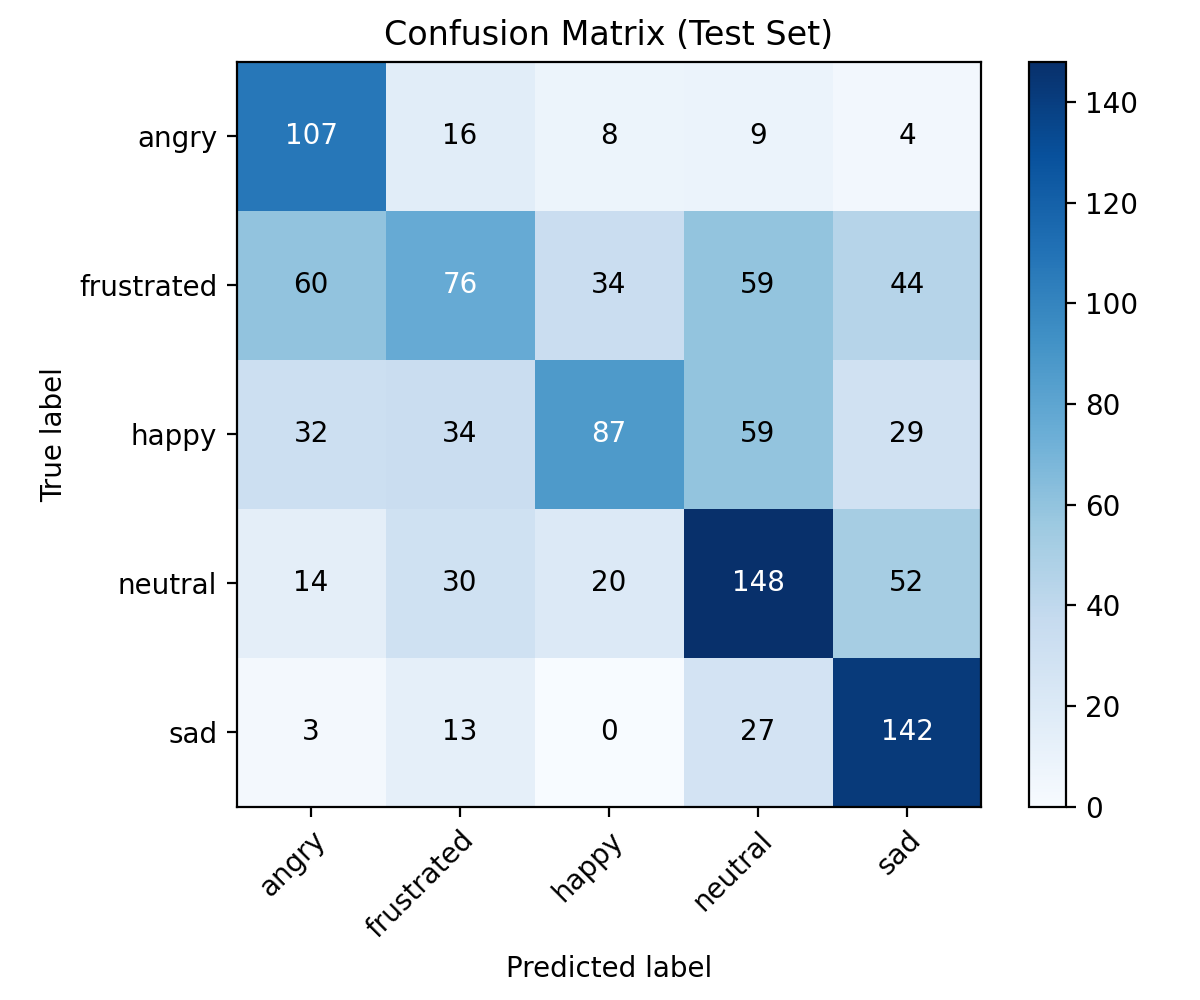
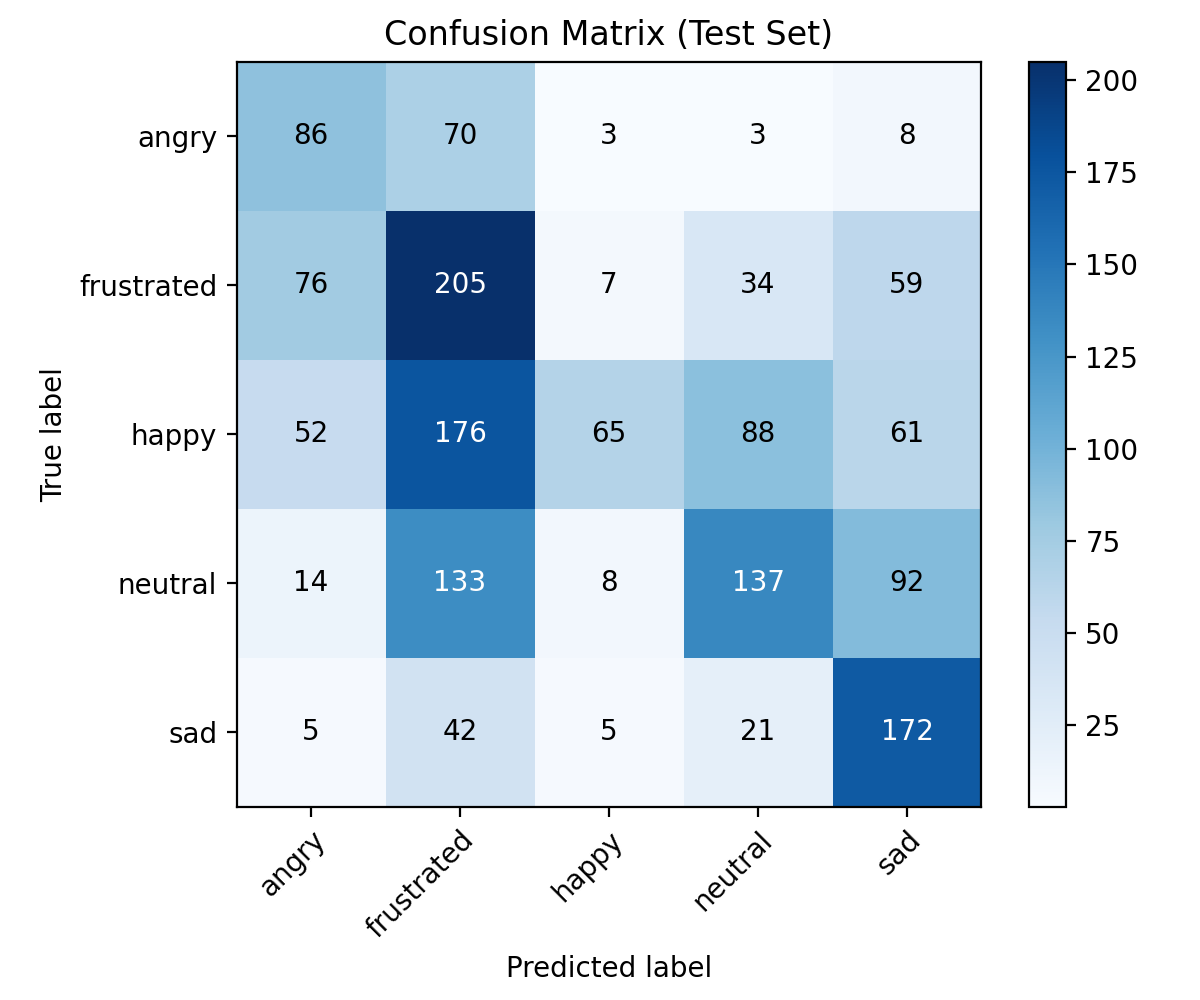
Fixed evaluate script test set

diff --git a/src/utils/evaluate.py b/src/utils/evaluate.py
@@ -1,13 +1,12 @@
 import os
 import numpy as np
 import torch
-from sklearn.model_selection import train_test_split
 from sklearn.metrics import classification_report, confusion_matrix
 import matplotlib.pyplot as plt
 
-from data.dataset_loader import load_iemocap_metadata, CLASS_TO_IDX
-from baseline.dataloaders import create_dataloaders
-from baseline.model_cnn import EmotionCNN
+from src.data.dataset_loader import load_iemocap_metadata, CLASS_TO_IDX
+from src.baseline.dataloaders import create_dataloaders
+from src.baseline.model_cnn import EmotionCNN
 
 DEVICE = "cuda" if torch.cuda.is_available() else "cpu"
 BASE_PATH = r"D:\Recordings\Science\DL\IEMOCAP_full_release"
@@ -20,17 +19,36 @@ os.makedirs(RESULTS_DIR, exist_ok=True)
 def main():
     print("Using device:", DEVICE)
 
-    # Load all samples and reproduce the same 70/15/15 split (same random_state as train.py)
+    # Load all samples
     samples = load_iemocap_metadata(BASE_PATH)
 
-    train_samples, temp = train_test_split(
-        samples, test_size=0.30, shuffle=True, random_state=42
-    )
-    val_samples, test_samples = train_test_split(
-        temp, test_size=0.50, shuffle=True, random_state=42
-    )
+    # Group samples by session - speaker-independent split (same as train.py)
+    session_to_samples = {}
+    for s in samples:
+        sess = s["session"]          # "Session1" ... "Session5"
+        session_to_samples.setdefault(sess, []).append(s)
 
-    print("Test samples:", len(test_samples))
+    # Speaker-independent split (same as train.py):
+    train_sessions = ["Session1", "Session2", "Session3"]
+    val_sessions   = ["Session4"]
+    test_sessions  = ["Session5"]
+
+    train_samples = []
+    val_samples = []
+    test_samples = []
+
+    for sess in train_sessions:
+        train_samples.extend(session_to_samples[sess])
+
+    for sess in val_sessions:
+        val_samples.extend(session_to_samples[sess])
+
+    for sess in test_sessions:
+        test_samples.extend(session_to_samples[sess])
+
+    print("Train sessions:", train_sessions, "→", len(train_samples), "samples")
+    print("Val sessions:  ", val_sessions,   "→", len(val_samples), "samples")
+    print("Test sessions: ", test_sessions,  "→", len(test_samples), "samples")
 
     # Create only the test DataLoader (train/val are unused here)
     _, _, test_loader = create_dataloaders(
